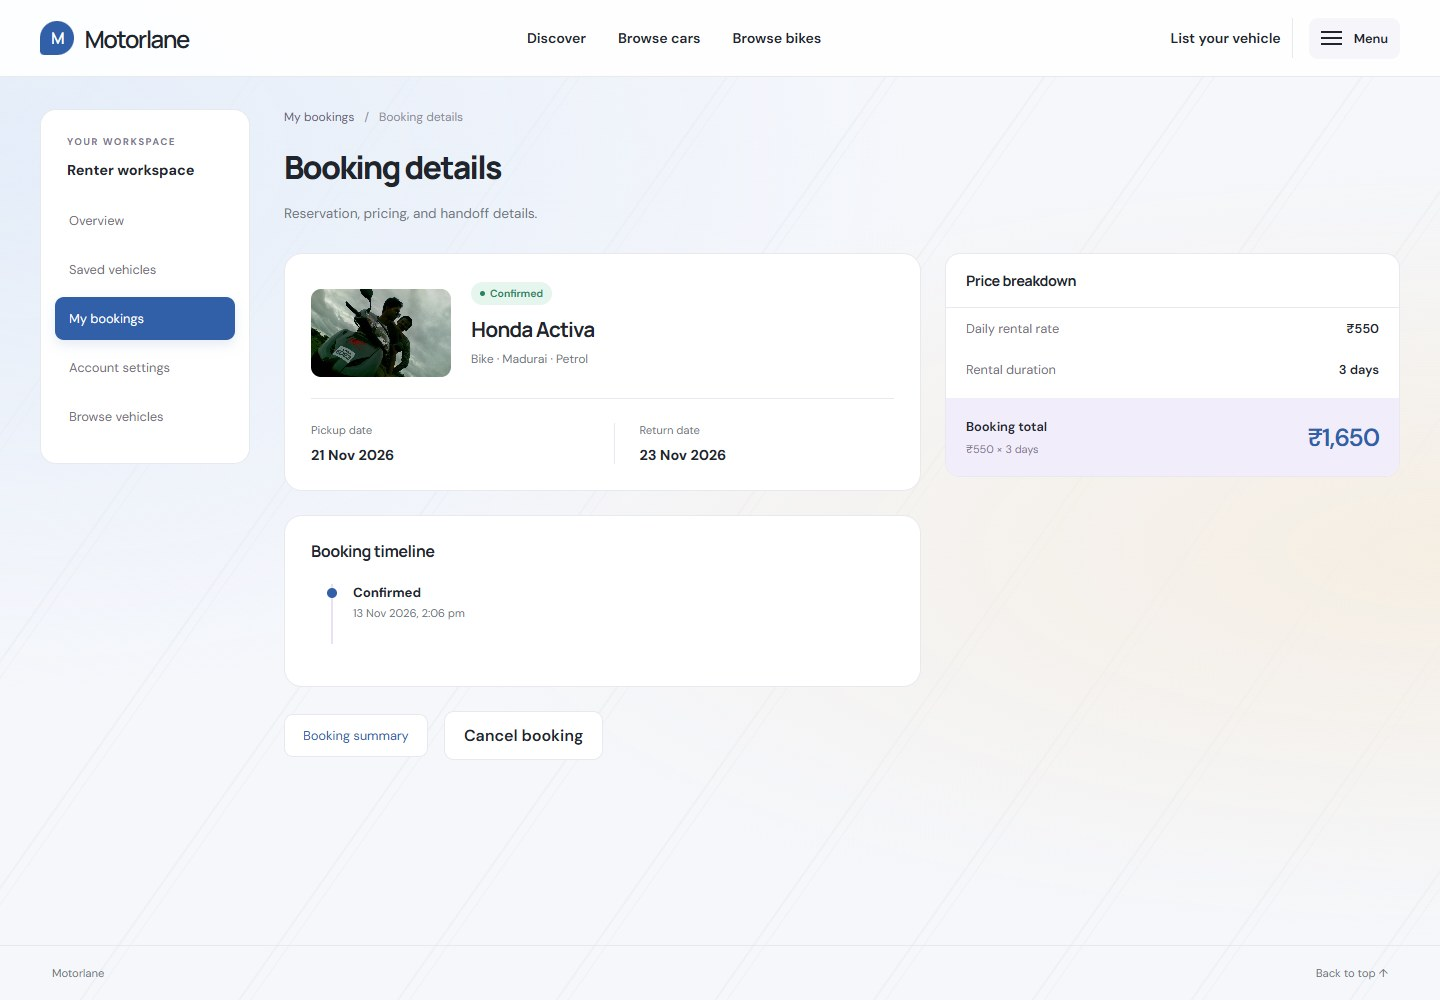
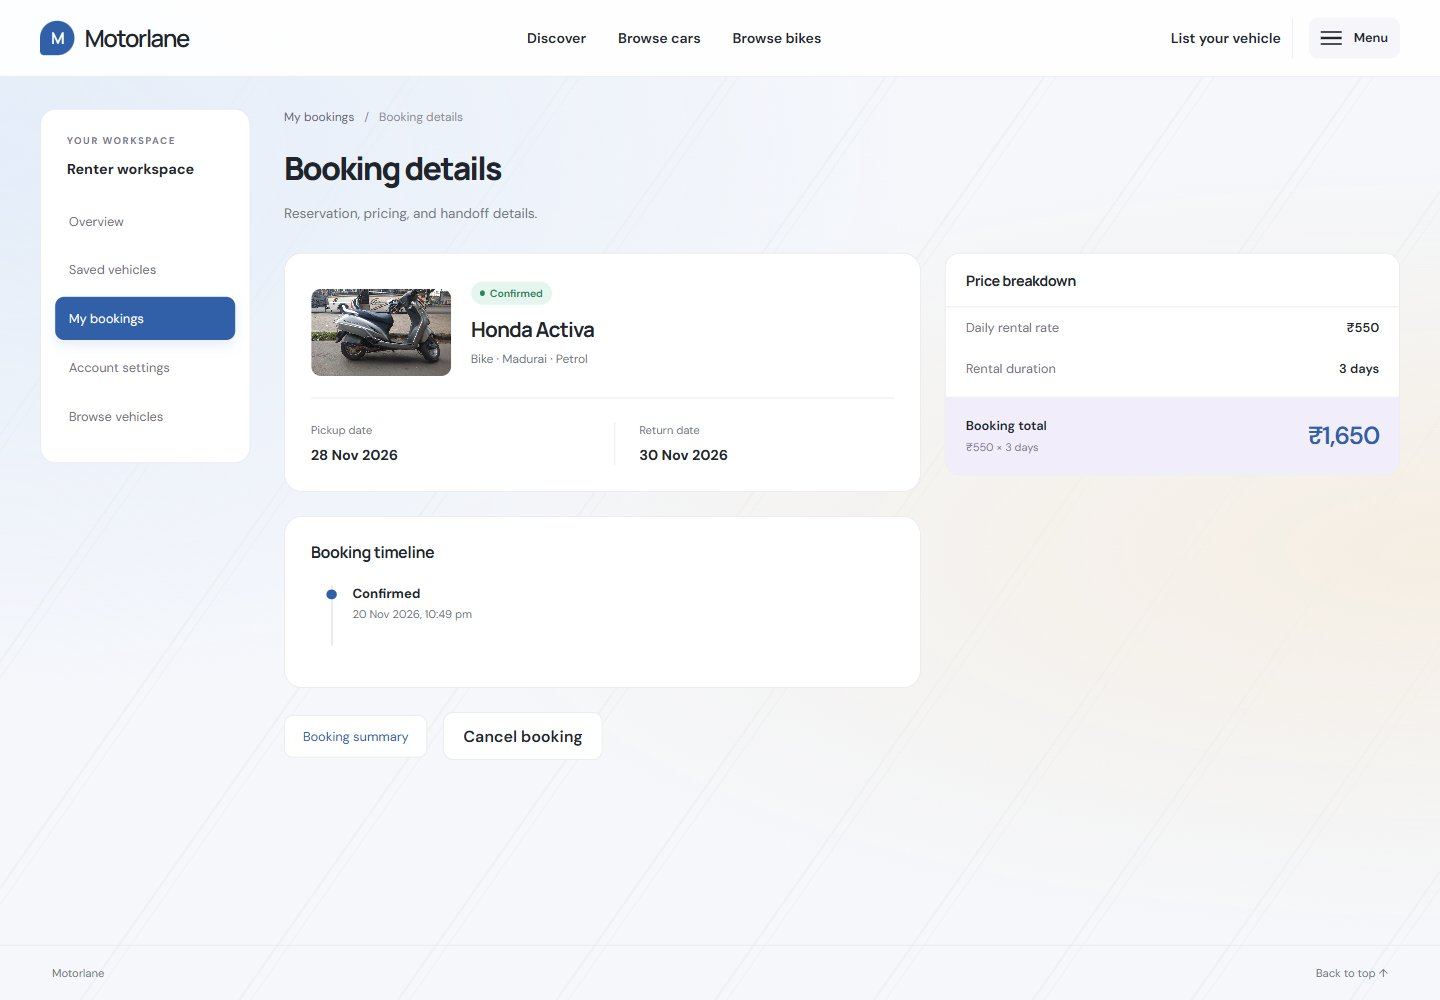
Refresh README screenshots with the real vehicle photographs

diff --git a/CREDITS.md b/CREDITS.md
@@ -29,6 +29,6 @@ The Google multicolor sign-in mark is embedded in
 authentication provider. Google retains its brand rights.
 
 Project screenshots in `docs/screenshots/` were captured from the running
-Motorlane application with demo accounts on 18 November 2026. They were taken
-before the AI renders were replaced and may still show them. Fonts are loaded from Google Fonts. DM Sans and Manrope
+Motorlane application with demo accounts on 20 November 2026 and show the
+Wikimedia Commons photographs credited above. Fonts are loaded from Google Fonts. DM Sans and Manrope
 retain their respective font licenses.

diff --git a/README.md b/README.md
@@ -8,7 +8,7 @@ availability, incoming requests, maintenance, and completed booking value.
 
 ![Motorlane marketplace homepage](docs/screenshots/marketplace.jpg)
 
-Screenshots from 18 November 2026 predate the switch to real vehicle photographs. Signed-in pages use demo accounts.
+Screenshots refreshed on 20 November 2026 from the Docker app with real vehicle photographs. Signed-in pages use demo accounts.
 
 ## Architecture
 
